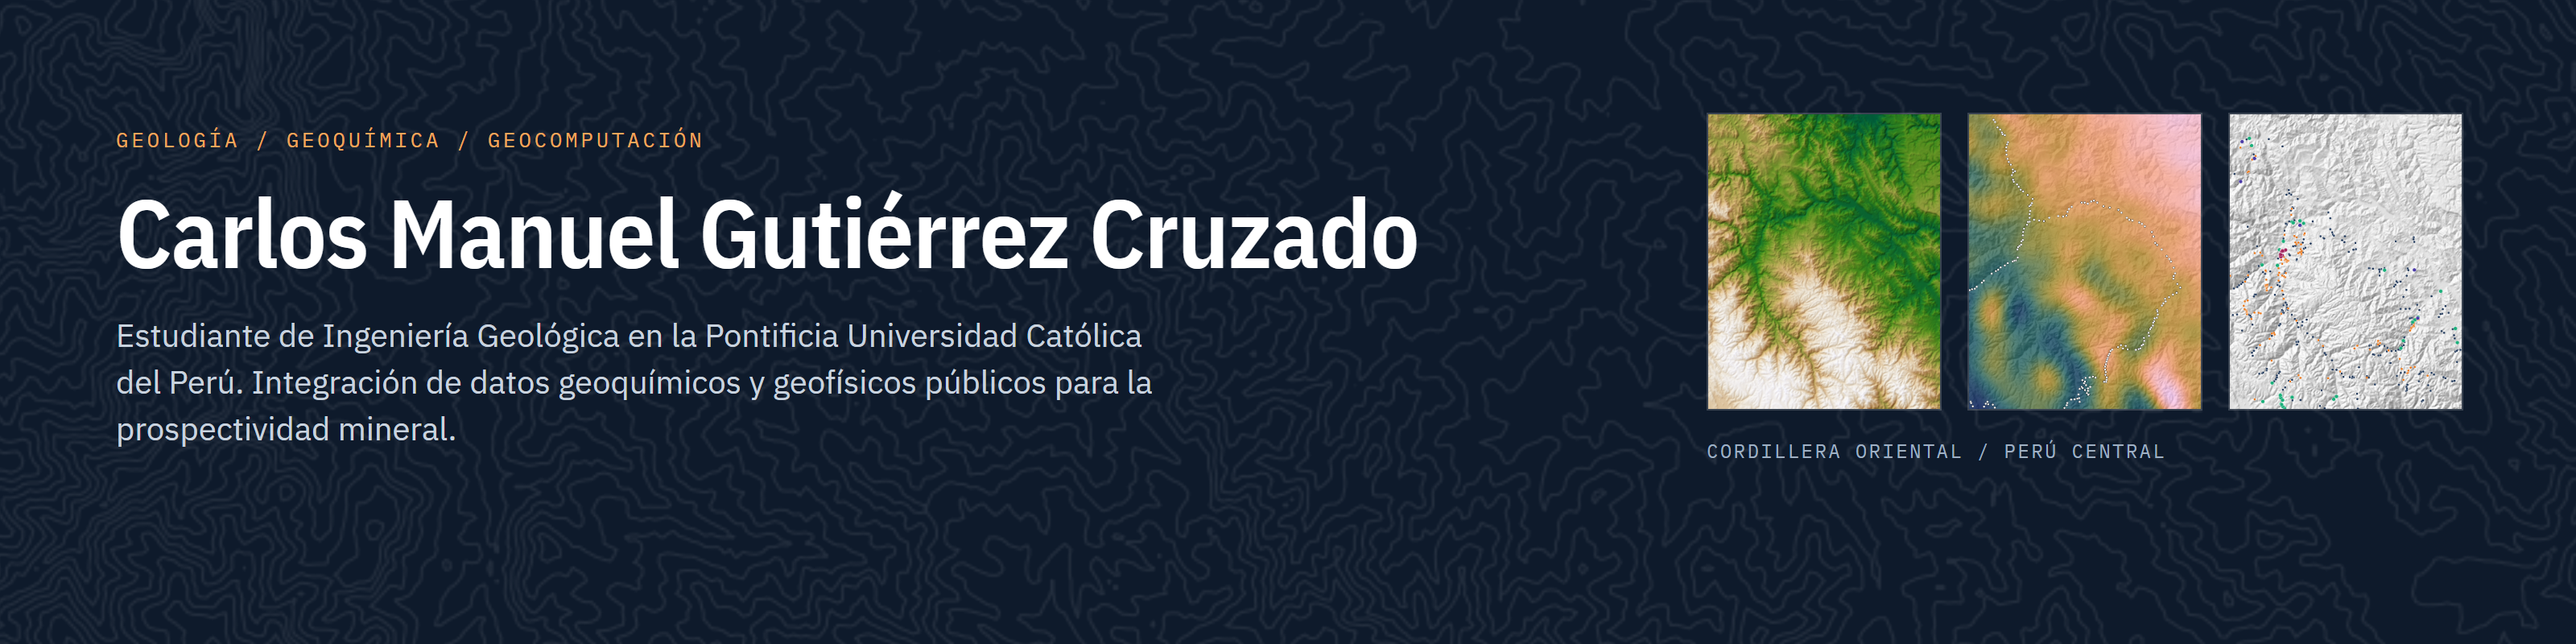
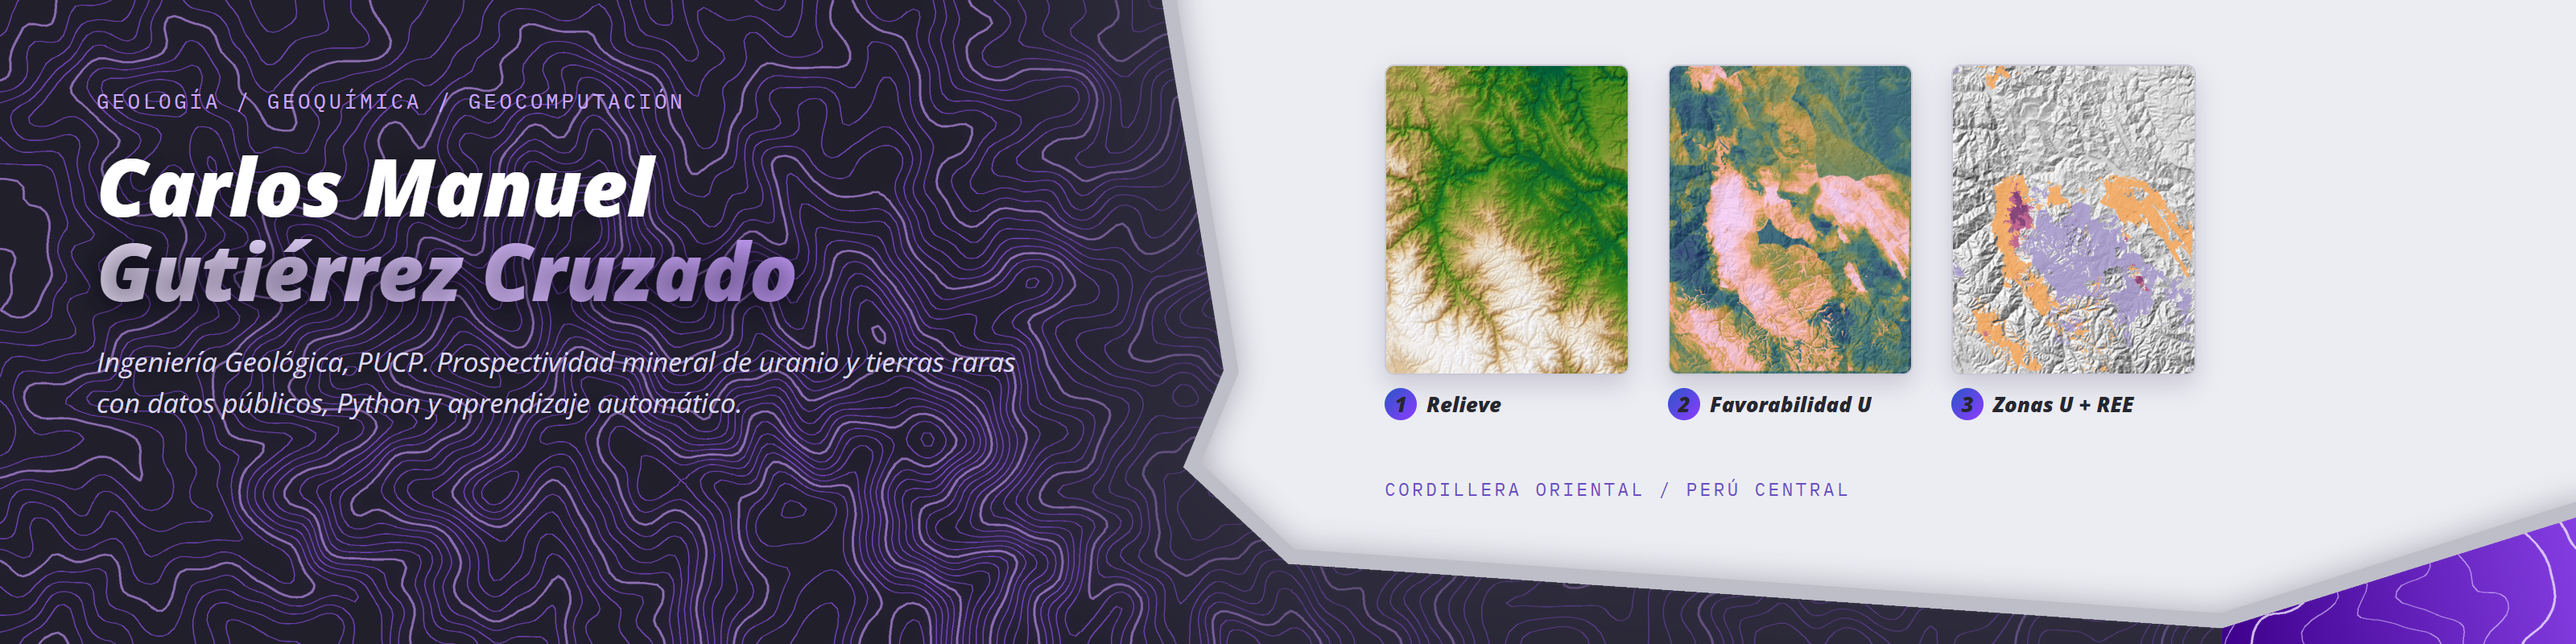
Actualizado el perfil con los modelos de prospectividad

diff --git a/diseno/encabezado.html b/diseno/encabezado.html
@@ -1,0 +1,41 @@
+<!doctype html>
+<html lang="es">
+<head>
+<meta charset="utf-8">
+<title>Encabezado del perfil</title>
+<link rel="preconnect" href="https://fonts.googleapis.com">
+<link href="https://fonts.googleapis.com/css2?family=IBM+Plex+Mono:wght@400;500&amp;family=Open+Sans:ital,wght@0,400;0,700;1,400;1,800&amp;display=swap" rel="stylesheet">
+<style>
+body { margin: 0; }
+.lienzo { position: relative; width: 1600px; height: 400px; overflow: hidden; font-family: 'Open Sans', sans-serif;
+          background: url(marco_perfil.png) 0 0 / 1600px 400px no-repeat; color: #fff; }
+.mono { font-family: 'IBM Plex Mono', Consolas, monospace; letter-spacing: 0.14em; }
+.lavanda { background: linear-gradient(90deg, #f4ebff, #c79dff); -webkit-background-clip: text; background-clip: text;
+           color: transparent; filter: drop-shadow(0 2px 8px rgba(10, 6, 24, 0.45)); }
+h1 { margin: 0; font-weight: 800; font-style: italic; font-size: 50px; line-height: 1.05; letter-spacing: -0.01em;
+     text-shadow: 0 2px 18px rgba(10, 6, 24, 0.6); }
+.mapa { position: absolute; top: 40px; display: flex; flex-direction: column; gap: 8px; }
+.mapa img { width: 150px; height: 191px; display: block; border-radius: 6px; border: 1px solid #c9c9d6;
+            box-shadow: 0 6px 16px rgba(40, 20, 80, 0.18); }
+.mapa span { font-weight: 800; font-style: italic; font-size: 13px; color: #26262f; }
+.num { display: inline-flex; align-items: center; justify-content: center; width: 20px; height: 20px; border-radius: 50%;
+       background: linear-gradient(135deg, #2a56c6, #8f3aff); color: #fff; font-size: 11px; margin-right: 6px; }
+</style>
+</head>
+<body>
+<div class="lienzo">
+  <div style="position: absolute; left: 60px; top: 54px; width: 660px;">
+    <div class="mono" style="font-size: 13px; color: #c9a7ff;">GEOLOGÍA / GEOQUÍMICA / GEOCOMPUTACIÓN</div>
+    <h1 style="margin-top: 18px;">Carlos Manuel<br><span class="lavanda">Gutiérrez Cruzado</span></h1>
+    <p style="margin: 18px 0 0; width: 600px; font-style: italic; font-size: 17px; line-height: 1.5; color: #ddd7ee;
+              text-shadow: 0 1px 8px rgba(10, 6, 24, 0.8);">
+      Ingeniería Geológica, PUCP. Prospectividad mineral de uranio y tierras raras con datos públicos, Python y
+      aprendizaje automático.</p>
+  </div>
+  <div class="mapa" style="left: 860px;"><img src="relieve.png" alt=""><span><span class="num">1</span>Relieve</span></div>
+  <div class="mapa" style="left: 1036px;"><img src="favorabilidad_U.png" alt=""><span><span class="num">2</span>Favorabilidad U</span></div>
+  <div class="mapa" style="left: 1212px;"><img src="zonas.png" alt=""><span><span class="num">3</span>Zonas U + REE</span></div>
+  <div class="mono" style="position: absolute; left: 860px; top: 296px; font-size: 11.5px; color: #6a4fc0;">CORDILLERA ORIENTAL / PERÚ CENTRAL</div>
+</div>
+</body>
+</html>

diff --git a/README.md b/README.md
@@ -1,34 +1,39 @@
+![Carlos Manuel Gutiérrez Cruzado](encabezado.png)
 
 [![LinkedIn](https://img.shields.io/badge/LinkedIn-carl--gutierrez-0A66C2?logo=linkedin&logoColor=white)](https://www.linkedin.com/in/carl-gutierrez/)
-![PUCP](https://img.shields.io/badge/Ingenier%C3%ADa%20Geol%C3%B3gica-PUCP-1d3557)
+![PUCP](https://img.shields.io/badge/Ingenier%C3%ADa%20Geol%C3%B3gica-PUCP-26262f)
+[![Mapa interactivo](https://img.shields.io/badge/mapa-U%20%2B%20REE-8f3aff?logo=leaflet&logoColor=white)](https://heisenbergpy.github.io/Prospectivity-for-U-REE-Peru-Central/)
 
 ## Sobre mí
 
-Estudiante de Ingeniería Geológica en la Pontificia Universidad Católica del Perú. Mi trabajo se centra en la
-integración de datos geoquímicos, geofísicos y geológicos de acceso público para la evaluación de la prospectividad
-mineral, con énfasis en el uranio y las tierras raras (U-REE) de la Cordillera Oriental del Perú central.
+Estudiante de Ingeniería Geológica en la Pontificia Universidad Católica del Perú. Trabajo en la integración de datos
+geoquímicos, geofísicos y geológicos de acceso público para la evaluación de la prospectividad mineral, con énfasis en
+el uranio y las tierras raras (U-REE) de la Cordillera Oriental del Perú central.
 
 ## Proyectos
 
 | Proyecto | Descripción |
 |---|---|
-| [Prospectivity for "U - REE" - Peru Central](https://github.com/HeisenbergPy/Prospectivity-for-U-REE-Peru-Central) | Validación de fuentes públicas de gravimetría y de uranio en roca en la Cordillera Oriental de Junín y Pasco. Datos verificados con sha256, paquete de Python con pruebas automáticas y cuadernos reproducibles. Trabajo Final de Geocomputación (PUCP, 2026-II). |
+| [Prospectivity for "U - REE" - Peru Central](https://github.com/HeisenbergPy/Prospectivity-for-U-REE-Peru-Central) | Del dato público al blanco de exploración: validación de fuentes de gravimetría y de uranio en roca, 40 variables integradas en una grilla de 250 m y cinco algoritmos de aprendizaje automático con validación por bloques espaciales. Resultado: 73 km² prioritarios para uranio y tierras raras en Junín. [Mapa interactivo](https://heisenbergpy.github.io/Prospectivity-for-U-REE-Peru-Central/) y [cuaderno en Colab](https://colab.research.google.com/github/HeisenbergPy/Prospectivity-for-U-REE-Peru-Central/blob/main/cuadernos/GC04_modelo_prospectividad.ipynb). Trabajo Final de Geocomputación (PUCP, 2026-II). |
 
 ## Áreas de trabajo
 
+- Prospectividad mineral: variables predictoras, modelos de aprendizaje automático, consenso entre algoritmos y
+  validación espacial (bloques, franja de prueba y pruebas contra el azar espacial).
 - Geoquímica de rocas y sedimentos: control de calidad de bases de datos públicas y diagramas petrogenéticos.
-- Prospectividad mineral: variables predictoras e integración de evidencias con aprendizaje automático.
-
 
 ## Herramientas
 
 ![Python](https://img.shields.io/badge/Python-3776AB?logo=python&logoColor=white)
 ![Jupyter](https://img.shields.io/badge/Jupyter-F37626?logo=jupyter&logoColor=white)
+![scikit-learn](https://img.shields.io/badge/scikit--learn-F7931E?logo=scikitlearn&logoColor=white)
 ![pandas](https://img.shields.io/badge/pandas-150458?logo=pandas&logoColor=white)
 ![NumPy](https://img.shields.io/badge/NumPy-013243?logo=numpy&logoColor=white)
 ![SciPy](https://img.shields.io/badge/SciPy-8CAAE6?logo=scipy&logoColor=white)
 ![GeoPandas](https://img.shields.io/badge/GeoPandas-139C5A)
-![rasterio](https://img.shields.io/badge/rasterio-1d3557)
+![rasterio](https://img.shields.io/badge/rasterio-26262f)
 ![Matplotlib](https://img.shields.io/badge/Matplotlib-11557C)
+![Leaflet](https://img.shields.io/badge/Leaflet-199900?logo=leaflet&logoColor=white)
 ![ArcGIS Pro](https://img.shields.io/badge/ArcGIS%20Pro-2C7AC3)
+![Blender](https://img.shields.io/badge/Blender-E87D0D?logo=blender&logoColor=white)
 ![Git](https://img.shields.io/badge/Git-F05032?logo=git&logoColor=white)
